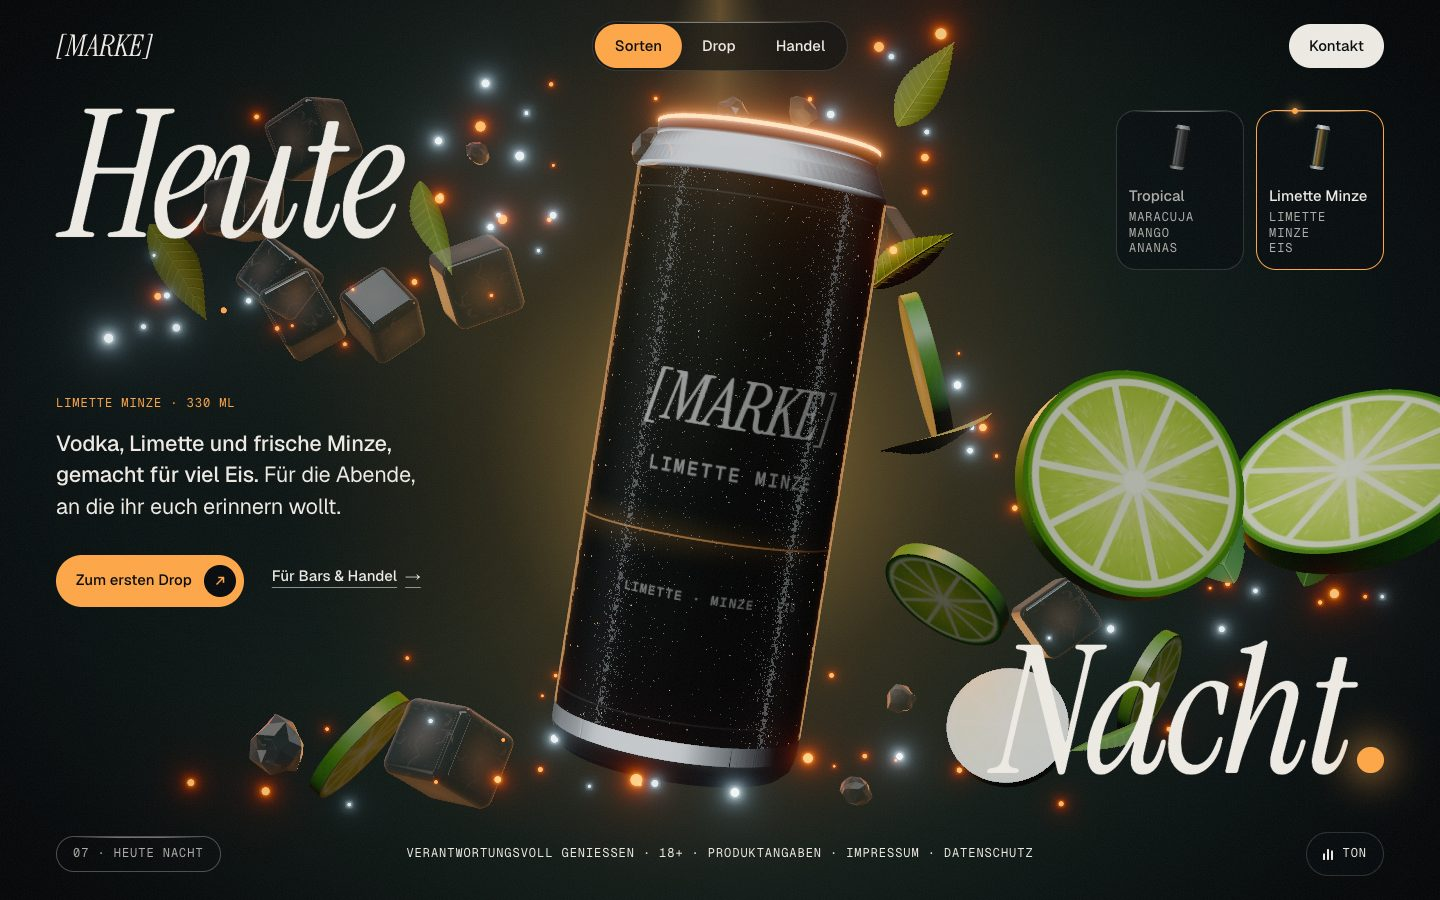
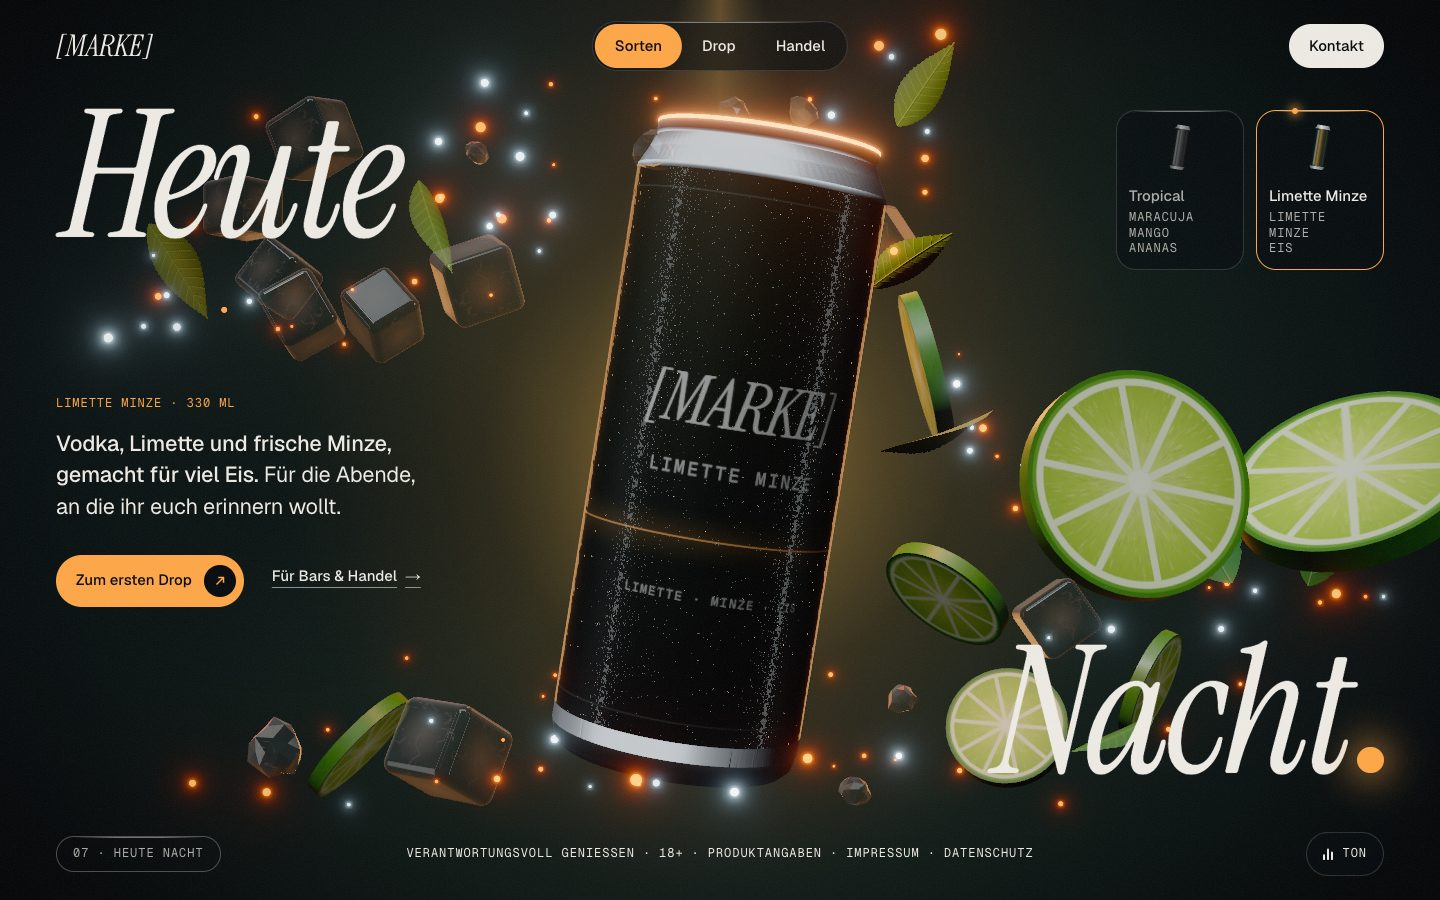
Fix lime wheels flashing as blank white discs
The cut face is flat, so its normal is the same across the whole disc:
with roughness 0.34 and clearcoat 0.7 it caught the cool key light on the
entire face at once and read as a white plate. Lower specular (0.3),
rougher face (0.6) and a soft clearcoat (0.25 / 0.5) keep it wet but not
mirror-like.

Measured over 50 frames of Limette Minze in headless Chrome: 4 neutral
white lime faces before, 0 after. Refreshes docs/screens/desktop-limette-minze.jpg.

diff --git a/src/components/hero/scene/elements/materials.ts b/src/components/hero/scene/elements/materials.ts
@@ -124,11 +124,15 @@ function materialsFor(kind: ElementKind, assets: SceneAssets): Material | Materi
         clearcoat: 0.35,
         clearcoatRoughness: 0.35,
       });
+      // The cut face is flat, so its normal is the same everywhere: a glossy
+      // face catches the cool key light on the whole disc at once and turns
+      // into a blank white plate. Low specular, soft clearcoat: wet, not mirror.
       const face = new MeshPhysicalMaterial({
         map: assets.limeFace,
-        roughness: 0.34,
-        clearcoat: 0.7,
-        clearcoatRoughness: 0.18,
+        roughness: 0.6,
+        specularIntensity: 0.3,
+        clearcoat: 0.25,
+        clearcoatRoughness: 0.5,
         // Backlit juice: the face carries a trace of its own color.
         emissive: "#ffffff",
         emissiveMap: assets.limeFace,
